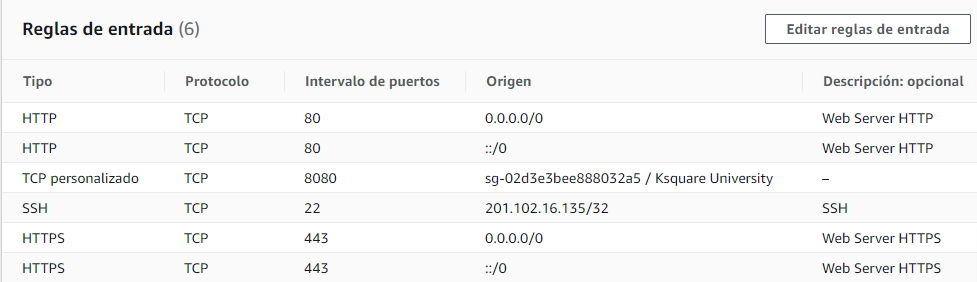
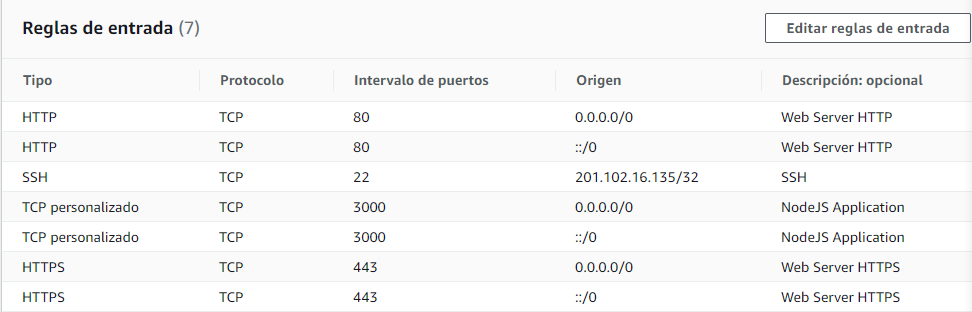
To Do List API V1.0.0.1 README.md Update

diff --git a/README.md b/README.md
@@ -29,16 +29,22 @@ Updated: 14/05/2021
 
 * Good usage of REST will be evaluated
 
-The application is deployed in an AWS instance using PM2:
+The application is deployed in an AWS EC2 instance using PM2 and NGINX as reverse proxy:
 
 2. Security Group:  
 Allow PORTS: 443 & 80 for connection from 0.0.0.0  
 Allow PORT 22 for for connection from your IP address  
 ![Security Group](./config/SecurityGroup.png)  
 
-3. Set a proxy pass using nginx. Nginx configuration:
+3. Proxypass NGINX configuration:
+![NGINX Config](./config/NGINX_config_1.png) 
+![NGINX Config](./config/NGINX_config_2.png)
 
-4. Screenshot of PM2 running:
-list and monitor
-
-5. IP Address & virtual domain (If you don´t have a domain, the application should be available via a virtual domain /etc/hosts)
+4. PM2 running:
+* list
+![PM2 Running 1](./config/PM2_running_list.png)  
+* monitor
+![PM2 Running 2](./config/PM2_running_monit.png)  
+5. 
+### Public IP Address: http://3.130.206.155:3000/
+### Domain: carlandescape.tk
